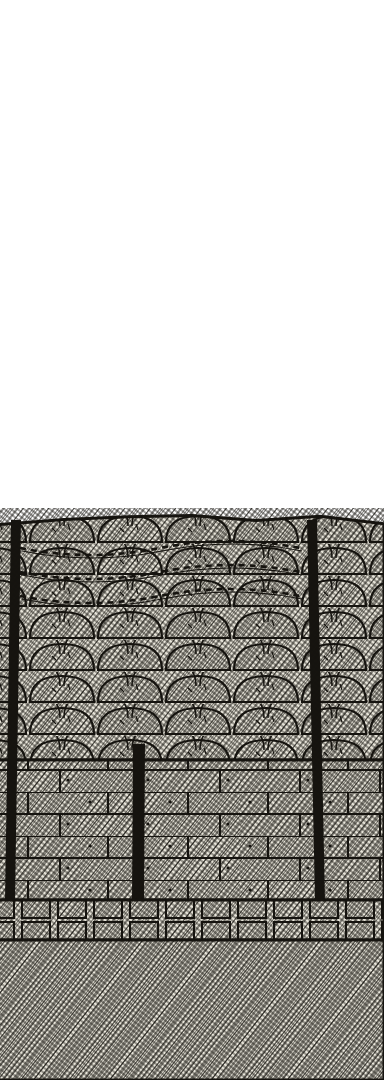
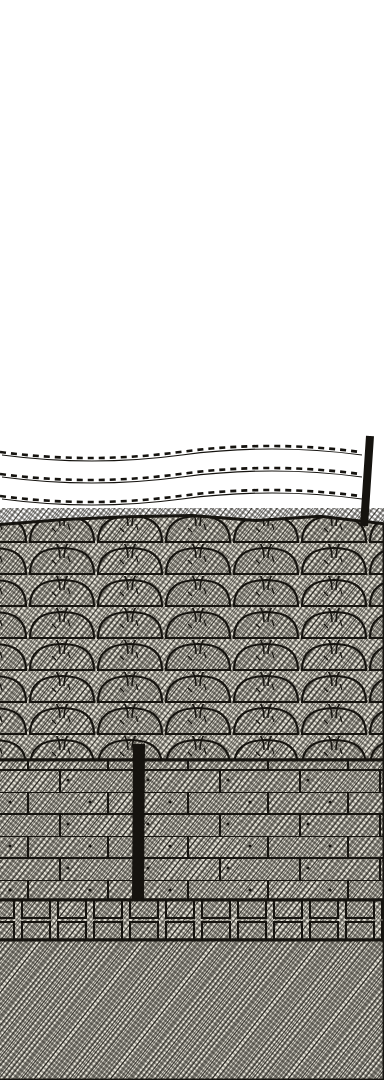
Corrige deux repères de surface de l'étape 1
Le poteau d'encoches (x 7040) devient le poteau des cloches muettes
(carrefour_cloches). Les barbelés passent au-dessus du parapet pour
dégager l'échelle (x 10464) et Lamarre (x 10144).

Claude-Session: https://claude.ai/code/session_011WbKxBfoJbcyebqrVqkEA5

diff --git a/tools/gen_decors_e1_surface.py b/tools/gen_decors_e1_surface.py
@@ -129,15 +129,15 @@ def plan3() -> str:
         out.append(f'<path d="M{cx + dx} {top - 2} Q{cx + dx - 6} {top - 14} {cx + dx} {top - 26} Q{cx + dx + 6} {top - 14} {cx + dx} {top - 2} Z" fill="{PAPIER}" stroke="{ENCRE}" stroke-width="1.6"/>')
     out.append(f'<path d="M{cx - 70} 820 L{cx + 70} 820 L{cx + 80} {SOL} L{cx - 80} {SOL} Z" fill="url(#sacs)" stroke="{ENCRE}" stroke-width="3"/>')
 
-    # étai aux bâtons gravés du compteur de cloches (carrefour 3200, la fausse note)
-    out.append(f'<path d="M7040 744 L7040 {SOL}" stroke="{ENCRE}" stroke-width="22"/>')
-    for k in range(12):
-        x = 7032 + (k % 5) * 4
-        y = 770 + (k // 5) * 30
-        if k % 5 == 4:
-            out.append(f'<path d="M7030 {y + 16} L7050 {y - 2}" stroke="{PAPIER}" stroke-width="2"/>')
-        else:
-            out.append(f'<path d="M{x} {y} L{x} {y + 18}" stroke="{PAPIER}" stroke-width="2"/>')
+    # poteau des cloches muettes (carrefour_cloches, la fausse note) : trois cloches sans battant
+    out.append(f'<path d="M7040 640 L7040 {SOL}" stroke="{ENCRE}" stroke-width="18"/>')
+    out.append(f'<path d="M6966 652 L7114 652" stroke="{ENCRE}" stroke-width="8"/>')
+    for bx, by in ((6984, 0), (7040, 10), (7096, 0)):
+        y0 = 656 + by
+        out.append(f'<path d="M{bx} {y0} L{bx} {y0 + 10}" stroke="{ENCRE}" stroke-width="2"/>')
+        out.append(f'<path d="M{bx - 14} {y0 + 46} Q{bx - 12} {y0 + 12} {bx} {y0 + 10} Q{bx + 12} {y0 + 12} {bx + 14} {y0 + 46} Z" fill="url(#h1)" stroke="{ENCRE}" stroke-width="3"/>')
+        # bouche vide : ellipse papier, aucun battant
+        out.append(f'<ellipse cx="{bx}" cy="{y0 + 46}" rx="14" ry="4" fill="{PAPIER}" stroke="{ENCRE}" stroke-width="2"/>')
 
     # banquette de tir et périscope (carrefour 3940)
     out.append(f'<path d="M7640 {SOL} L7640 840 L7940 840 L7940 {SOL} Z" fill="url(#sacs)" stroke="{ENCRE}" stroke-width="3"/>')
@@ -152,11 +152,11 @@ def plan3() -> str:
         out.append(f'<path d="M{lx} 592 Q{lx + 7} 604 {lx} 616 Q{lx - 7} 604 {lx} 592 Z" fill="{PAPIER}" stroke="{ENCRE}" stroke-width="1.6"/>')
         out.append(f'<rect x="{lx - 18}" y="574" width="36" height="7" fill="{ENCRE}"/>')
 
-    # barbelés qui vibrent au pied de l'échelle (détail 740 → 10404)
-    for k, y in enumerate((548, 572, 596)):
-        out.append(f'<path d="M10260 {y} Q10330 {y + 14} 10400 {y} T10540 {y}" fill="none" stroke="{ENCRE}" stroke-width="2.6" stroke-dasharray="6 5"/>')
-        out.append(f'<path d="M10262 {y + 3} Q10332 {y + 17} 10402 {y + 3} T10542 {y + 3}" fill="none" stroke="{ENCRE}" stroke-width="1.2"/>')
-    out.append(f'<path d="M10250 {SOL} L10256 520 M10560 {SOL} L10552 520" stroke="{ENCRE}" stroke-width="10"/>')
+    # barbelés au-dessus du parapet, au-dessus de l'échelle (x 10464) et de Lamarre (10144)
+    for y in (452, 474, 496):
+        out.append(f'<path d="M10240 {y} Q10330 {y + 12} 10420 {y} T10600 {y}" fill="none" stroke="{ENCRE}" stroke-width="2.6" stroke-dasharray="6 5"/>')
+        out.append(f'<path d="M10242 {y + 3} Q10332 {y + 15} 10422 {y + 3} T10602 {y + 3}" fill="none" stroke="{ENCRE}" stroke-width="1.2"/>')
+    out.append(f'<path d="M10236 {CRETE + 6} L10232 436 M10604 {CRETE + 6} L10610 436" stroke="{ENCRE}" stroke-width="8"/>')
 
     # caillebotis et terre
     out.append(f'<rect x="0" y="{SOL}" width="{LARGEUR}" height="40" fill="url(#caille)" stroke="{ENCRE}" stroke-width="3"/>')
